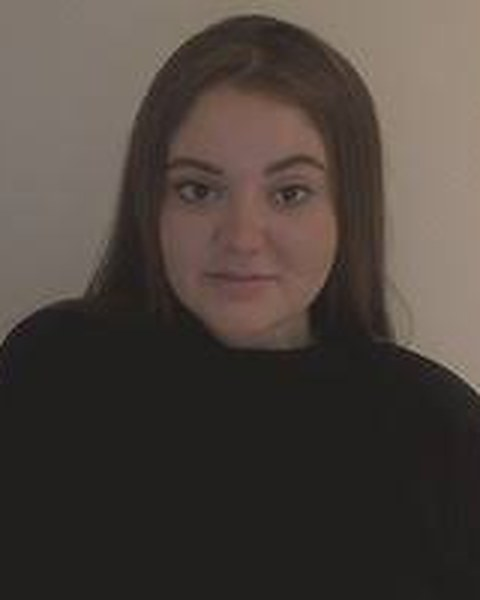
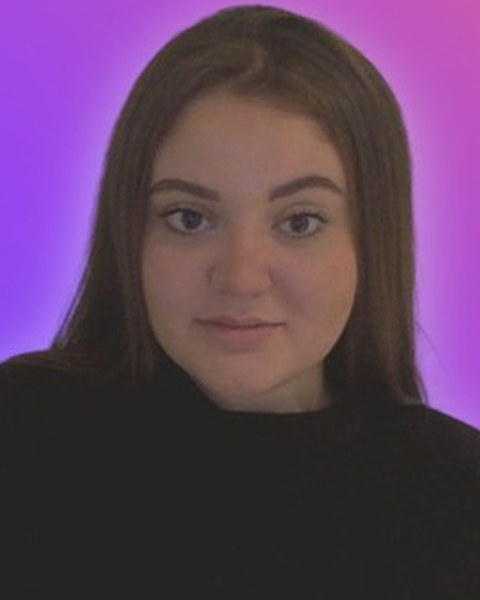
Add files via upload
maj images

diff --git a/build.js b/build.js
@@ -452,7 +452,7 @@ function buildSite(SITE, RAW, opts) {
           }).join('')}</div>`, 'sec-insp');
         }
         if (p.ressources.length) {
-          h += sec('Read · Watch · Listen', `Les contenus cités par ${esc(P)}`, `<div class="rwl-mini">${p.ressources.map(r => { const ro = resOf(r.titre); return `<div class="rwl-m"><span class="rtype">${TYPES[r.type]}</span><h3><a href="${L('inspirations/')}#r-${ro.slug}">${esc(r.titre)}</a></h3>${r.auteur ? `<p class="insp-x">${esc(r.auteur)}</p>` : ''}${r.raison ? `<p>« ${esc(r.raison)} »</p>` : ''}<p class="rel">${REL[r.relation].tag}</p></div>`; }).join('')}</div>`);
+          h += sec('Read · Watch · Listen', `Les contenus cités par ${esc(P)}`, `<div class="rwl-mini">${p.ressources.map(r => { const ro = resOf(r.titre); return `<div class="rwl-m">${r.image ? `<img class="rwl-thumb" src="${esc(L.a(r.image))}" alt="Couverture : ${esc(r.titre)}" width="96" height="125" loading="lazy">` : ''}<span class="rtype">${TYPES[r.type]}</span><h3><a href="${L('inspirations/')}#r-${ro.slug}">${esc(r.titre)}</a></h3>${r.auteur ? `<p class="insp-x">${esc(r.auteur)}</p>` : ''}${r.raison ? `<p>« ${esc(r.raison)} »</p>` : ''}<p class="rel">${REL[r.relation].tag}</p></div>`; }).join('')}</div>`);
         }
         // Sections libres
         const KNOWN = ['parcours', 'declic', 'mindset', 'conseil', 'hottake'];
@@ -523,7 +523,7 @@ function buildSite(SITE, RAW, opts) {
       if (RESS.length) {
         k++;
         h += `<section class="rwl" id="rwl" aria-labelledby="rwl-h"><div class="ip-head"><p class="eyebrow pinkd">${pad(k)}</p><h2 class="h2" id="rwl-h">Read · Watch · Listen</h2><p class="note">Les livres, podcasts, newsletters et contenus cités par les talents NextGen.</p></div><div class="rwl-grid">` +
-          RESS.map((r, i) => `<article class="rwl-i" id="r-${r.slug}"><div class="cover c${i % 4} t-${r.type}">${r.image ? `<img src="${esc(L.a(r.image))}" alt="Visuel : ${esc(r.titre)}" width="400" height="600" loading="lazy">` : `<span class="cv-type" aria-hidden="true">${TYPES[r.type]}</span><span class="cv-t" aria-hidden="true">${esc(r.titre)}</span>${r.auteur ? `<span class="cv-a" aria-hidden="true">${esc(r.auteur)}</span>` : ''}`}</div>` +
+          RESS.map((r, i) => `<article class="rwl-i" id="r-${r.slug}"><div class="cover c${i % 4} t-${r.type}${r.image ? ' has-img' : ''}">${r.image ? `<img src="${esc(L.a(r.image))}" alt="Couverture : ${esc(r.titre)}${r.auteur ? ' (' + esc(r.auteur) + ')' : ''}" width="400" height="520" loading="lazy">` : `<span class="cv-type" aria-hidden="true">${TYPES[r.type]}</span><span class="cv-t" aria-hidden="true">${esc(r.titre)}</span>${r.auteur ? `<span class="cv-a" aria-hidden="true">${esc(r.auteur)}</span>` : ''}`}</div>` +
             `<span class="rtype">${TYPES[r.type]}</span><h3>${r.lien ? `<a href="${esc(r.lien)}" target="_blank" rel="noopener">${esc(r.titre)} ↗</a>` : esc(r.titre)}</h3>${r.auteur ? `<p class="insp-x">${esc(r.auteur)}</p>` : ''}` +
             r.by.map(x => `${x.raison ? `<p>« ${esc(x.raison)} »</p>` : ''}<a class="link-arrow" href="${L(x.p.path)}">${REL[x.relation].by} ${esc(x.p.nom)} →</a>`).join('') + '</article>').join('') + '</div></section>';
       }

diff --git a/data/interviews.js b/data/interviews.js
@@ -244,7 +244,7 @@ window.INTERVIEWS = [
     marques: ["CEWE", "Croix-Rouge française", "Orange"],
     outils: [{ nom: "Air360", usage: "UX Analytics : le qualitatif et les session replays donnent le pourquoi des frictions" }],
     mentors: [],
-    ressources: [{ titre: "Don't Make Me Think", type: "book", auteur: "Steve Krug", lien: "", image: "", raison: "Je conseille de lire « Don't Make Me Think » de Steve Krug ou des livres blancs.", relation: "recommends" }],
+    ressources: [{ titre: "Don't Make Me Think", type: "book", auteur: "Steve Krug", lien: "", image: "images/inspirations/dont-make-me-think.jpg", raison: "Je conseille de lire « Don't Make Me Think » de Steve Krug ou des livres blancs.", relation: "recommends" }],
     sujets: ["IA", "Personnalisation", "Recherche UX", "Priorisation"],
     methode: { titre: "Le protocole de Salomé avant chaque test", synthese: true, etapes: [{ titre: "Croiser les sources", texte: "Data quantitative et qualitative (session replays, appels clients, équipes support) avant toute hypothèse." }, { titre: "Poser une vraie hypothèse", texte: "Jamais de test basé uniquement sur du ressenti ou une seule métrique." }, { titre: "Prioriser", texte: "Passer chaque idée dans une grille de priorisation type ICE pour éviter les choix à l'affect." }, { titre: "Apprendre de chaque résultat", texte: "Un test négatif n'est jamais un échec : c'est une donnée qui évite une mauvaise décision à grande échelle." }] },
     aRetenir: { synthese: true, points: [{ titre: "La qualité avant le volume.", texte: "Moins de tests pour tester, plus d'hypothèses solides et priorisées." }, { titre: "Le quanti dit quoi, le quali dit pourquoi.", texte: "Croiser les deux est le seul moyen d'isoler les vraies frictions." }, { titre: "Le CRO est un sport d'équipe.", texte: "Sans designers, développeurs et équipes produit embarqués, les insights restent au placard." }] },

diff --git a/assets/css/style.css b/assets/css/style.css
@@ -389,6 +389,9 @@ main{flex:1;width:100%;max-width:1320px;margin:0 auto;padding:0 var(--pad) 96px}
 .cover.t-podcast,.cover.t-video{aspect-ratio:1/1;border-radius:16px;padding:18px}
 .cover.t-newsletter,.cover.t-website,.cover.t-media{aspect-ratio:4/5;border-radius:16px;padding:18px}
 .cover img{position:absolute;inset:0;width:100%;height:100%;object-fit:cover}
+.cover.has-img{aspect-ratio:auto;padding:0;background:none;box-shadow:0 10px 24px rgba(42,30,38,.18)}
+.cover.has-img img{position:static;height:auto;display:block}
+.rwl-thumb{width:96px;height:auto;border-radius:4px 8px 8px 4px;box-shadow:0 6px 16px rgba(42,30,38,.18);margin-bottom:4px}
 .cv-type{font-family:var(--mono);font-size:10px;letter-spacing:.12em;text-transform:uppercase}
 .cv-t{font-size:clamp(22px,2vw,28px);font-weight:800;letter-spacing:-.035em;line-height:1;text-wrap:balance}
 .cv-a{font-family:var(--mono);font-size:11px}
